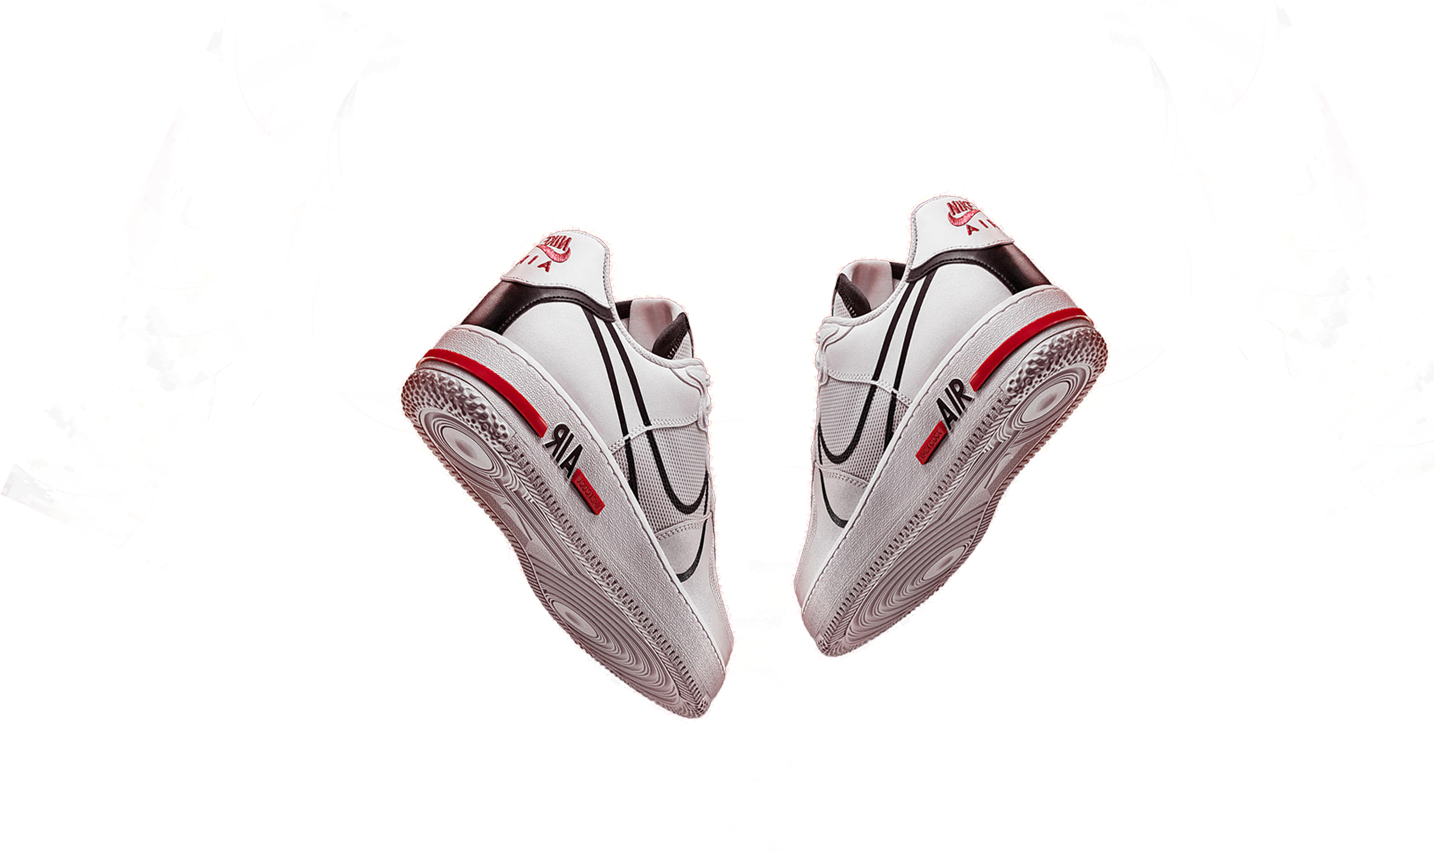
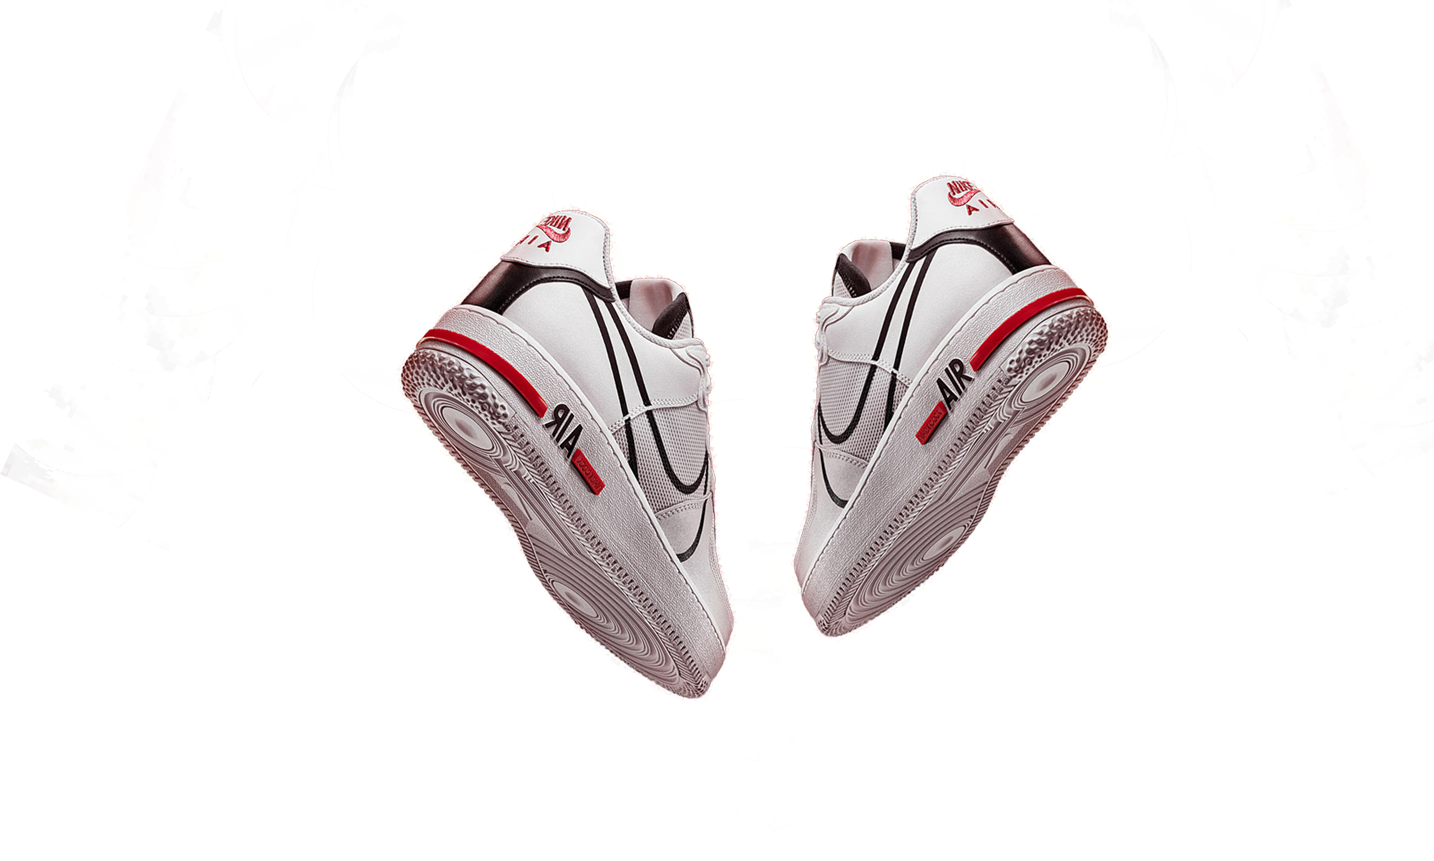
changed layout

Changed region(s): [[0.2762, 0.2416, 0.5216, 0.8455], [0.5523, 0.1812, 0.7978, 0.7549]]

diff --git a/src/components/parallax2.jsx b/src/components/parallax2.jsx
@@ -9,10 +9,10 @@ const Container = styled.div`
   display: flex;
 
   @media  (min-width: 426px) and (max-width: 768px) {
-    width:100vw;
+
   }
   @media  (min-width: 769px) and (max-width: 2560px) {
-    width:100vw;
+    min-width:100vw;
 `
 
 const LeftContainer = styled.div`
@@ -50,9 +50,14 @@ const Img = styled.img`
 
 const TextContainer =styled.div`
 width:100%;
-overflow-y: auto;
+
 @media  (min-width: 1px) and (max-width: 425px) {
-  width: 78%;
+  width: 77vw;
+  position: relative;
+  top: 0vw;
+  left: 0vw;
+  overflow-y: auto;
+  
 }
 `
 
@@ -64,9 +69,8 @@ const Text = styled.p`
   @media  (min-width: 1px) and (max-width: 425px) {
     padding:6vw 8vw 5vw 8vw;
     font-size: 4.5vw;
-    z-index: 30;
-    width:60vw;
     position: relative;
+    width: unset;
   }
   @media  (min-width: 426px) and (max-width: 768px) {
     padding:4vw 4vw 4vw 4vw;

diff --git a/src/components/Footer.jsx b/src/components/Footer.jsx
@@ -17,7 +17,7 @@ width: 7vw;
     display:flex;
     flex-direction:column;
     text-align:center;
-    width: 31vw;
+    width: 19vw;
     height: 98vw;
   }
 `
@@ -32,7 +32,7 @@ writing-mode: vertical-lr;
 justify-content: center;
 @media  (min-width: 1px) and (max-width: 425px) {
 
-  font-size:4vw;
+    font-size: 3.5vw;
 }
 @media  (min-width: 426px) and (max-width: 768px) {
 
@@ -47,7 +47,9 @@ position:absolute;
 top:2vw;
 right:0vw;
 @media  (min-width: 1px) and (max-width: 425px) {
-  padding: 4vw 2vw;
+     font-size: 3.5vw;
+     top:16vw;
+right:0vw;
 }
 @media  (min-width: 426px) and (max-width: 768px) {
 

diff --git a/src/App.js b/src/App.js
@@ -4,8 +4,7 @@ import Parallax2 from './components/parallax2.jsx'
 import Footer from './components/Footer.jsx'
 import af1 from './images/react.jpg'
 import af2 from './images/A5AEDE33-E71E-4BC1-B417-A83A46EFA2FB1.png';
-
-import Fog from './images/e5c5a58103d2d993135ae505abfb08d7.jpg'
+import Fog from './images/e5c5a58103d2d993135ae505abfb08d7.png'
 import Fog2 from './images/nike-air-fear-of-god-1-release-date-2.jpg'
 import github from '../src/images/github.png'
 import linkedin from '../src/images/linkedin.png'
